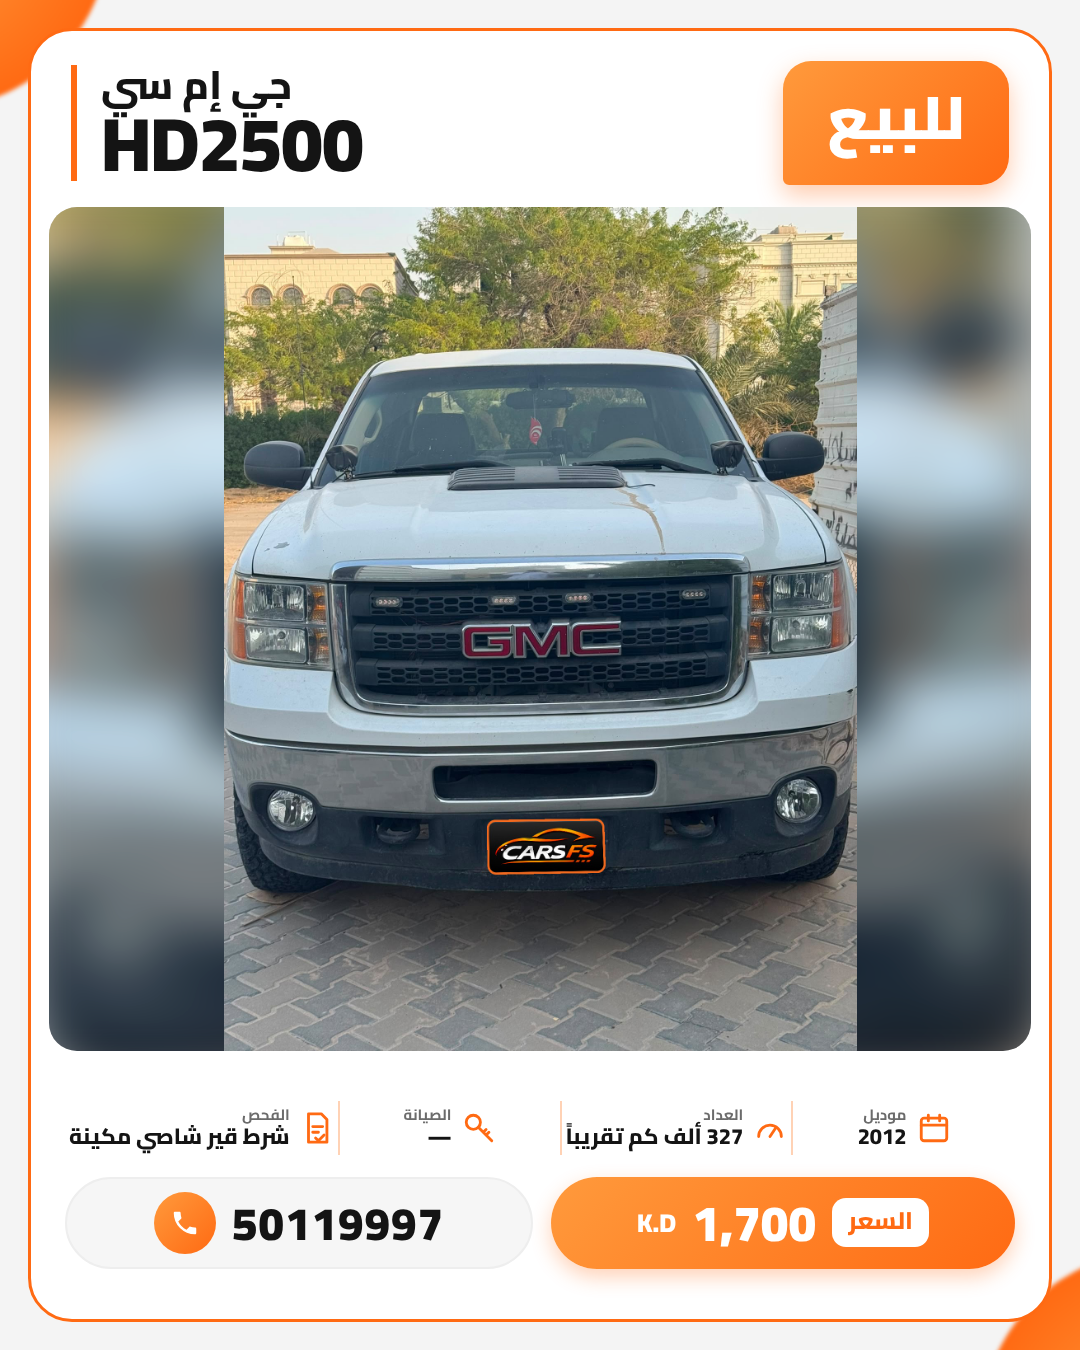
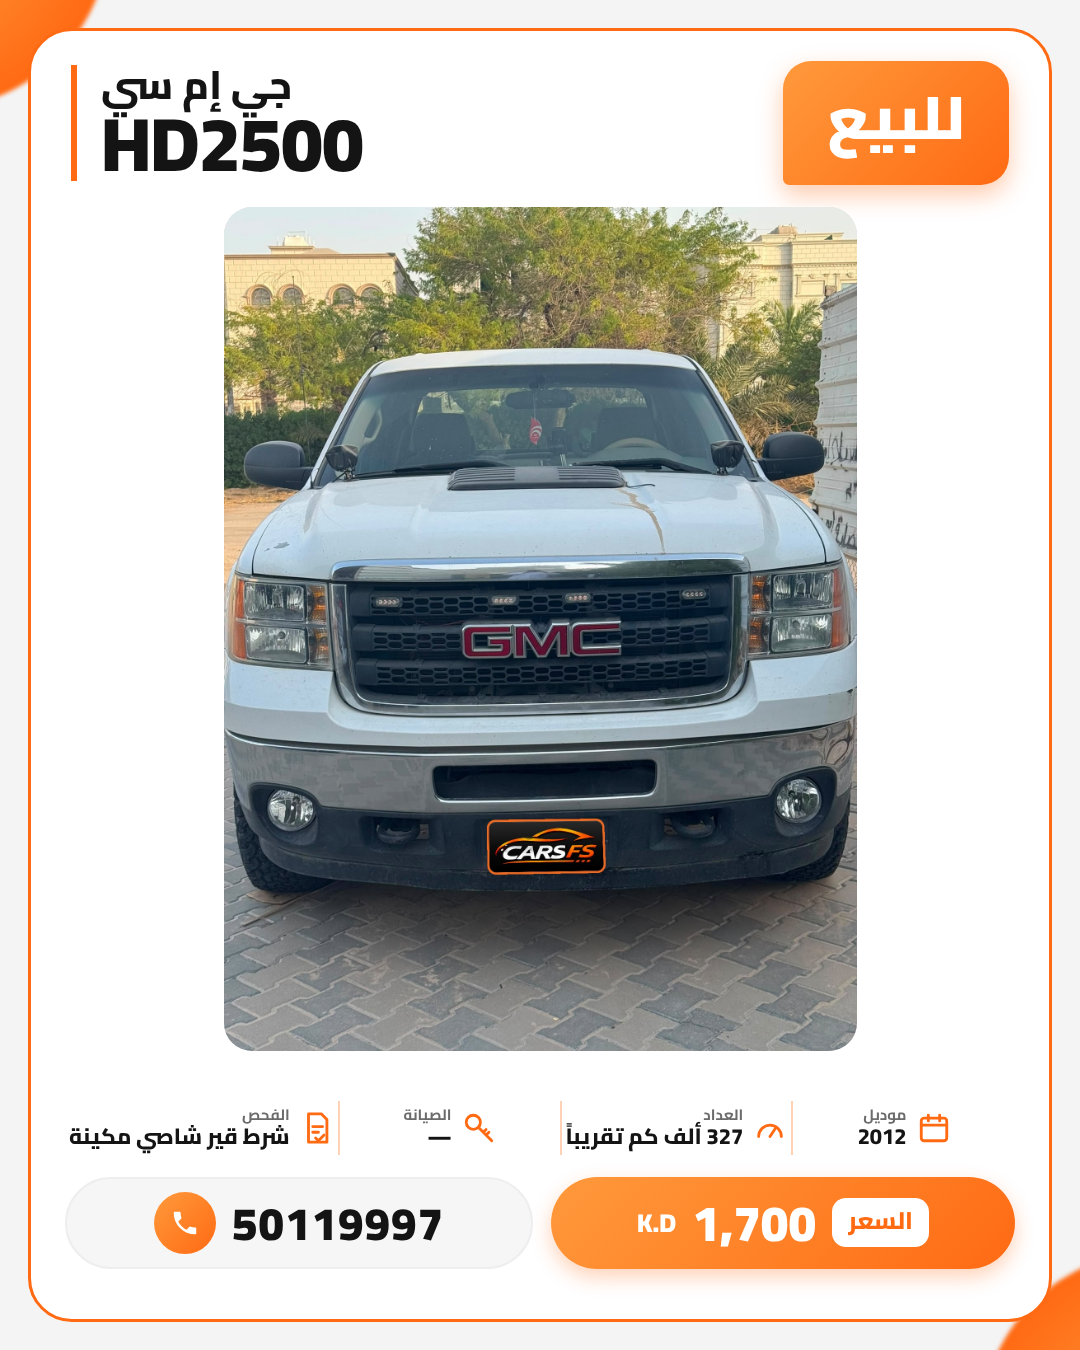
Template: add 'fit' mode (no crop, no blur); GMC post uses it
Claude-Session: https://claude.ai/code/session_01KnexkFeKie1QkgYCFz3yRY

Changed region(s): [[0.7639, 0.1556, 0.9778, 0.7778], [0.0306, 0.1556, 0.2139, 0.7778]]

diff --git a/template/post.html b/template/post.html
@@ -110,6 +110,16 @@
     img.style.setProperty('--pos', d.photoPosition || 'center');
     img.style.setProperty('--fit', d.photoFit || 'contain');   // "cover" fills the box (may crop edges)
     img.src = bg.src = '../' + d.photo;
+    // "fit": no blur, no crop - the box shrinks to the photo's own shape (centred)
+    if (d.photoFit === 'fit') {
+      img.style.setProperty('--fit', 'cover'); bg.style.display = 'none';
+      const box = img.parentElement;
+      return Promise.all([document.fonts.ready, img.decode()]).then(() => {
+        const h = box.clientHeight, w = Math.min(box.clientWidth, Math.round(h * img.naturalWidth / img.naturalHeight));
+        box.style.width = w + 'px'; box.style.flex = 'none'; box.style.height = h + 'px';
+        box.style.alignSelf = 'center'; box.style.margin = '0 auto';
+      });
+    }
     return Promise.all([document.fonts.ready, img.decode(), bg.decode()]);
   };
 </script>

diff --git a/CLAUDE.md b/CLAUDE.md
@@ -15,7 +15,7 @@ The owner's workflow: they send car photos + text here, and Claude does everythi
 1. Check the photos are original, with no AI edits to the car or background. If they are edited, tell the owner and stop until originals arrive.
 2. Cover the number plate with the CARS FS sticker at the plate's angle (`tools/plate/`):
    `cd tools/plate && node mksticker.js W H && python3 plate.py in.jpg out.jpg TLx,TLy TRx,TRy BRx,BRy BLx,BLy`
-3. Put the **first photo the owner sends** in the template (always, not the "clearest"). All other photos go in the post as originals. Post images are 1080×1350, stories 1080×1920.
+3. Put the **first photo the owner sends** in the template (always, not the "clearest"), whole and untouched: use `"photoFit": "fit"` (no crop, no blurred side fill). All other photos go in the post as originals. Post images are 1080×1350, stories 1080×1920.
 4. Show the owner the design and the full post. **Nothing is published before the word «موافق».**
 5. Schedule on Instagram + TikTok via Metricool (brand `cars__fs`, blogId 7783138, timezone Asia/Kuwait). TikTok title = first line of the caption.
    Instagram story works via Metricool; TikTok story and Snapchat are manual.
